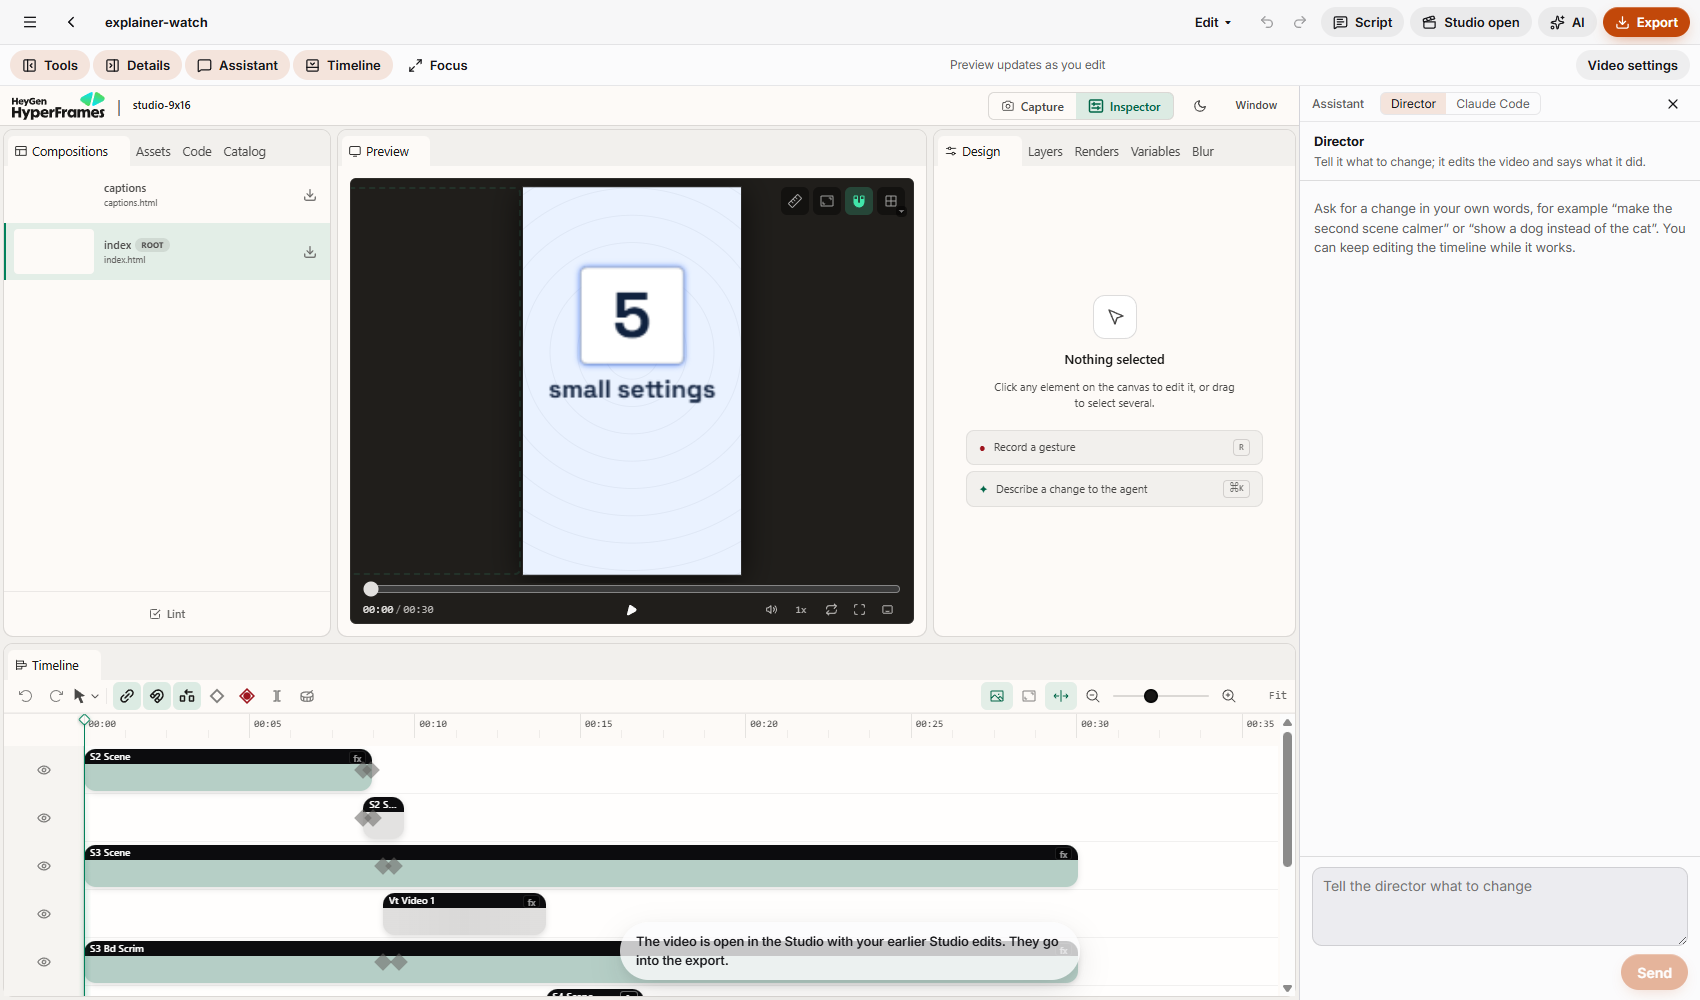
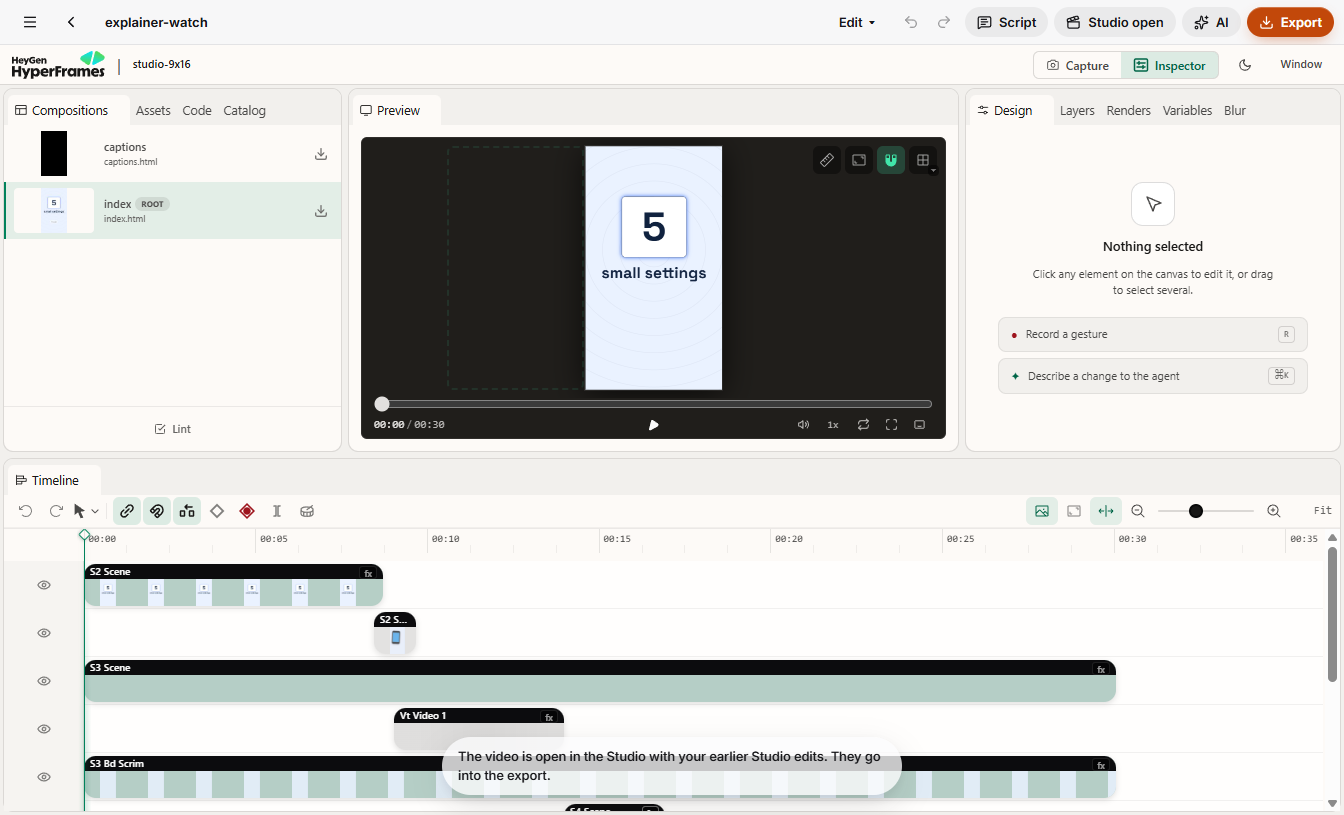
Studio mode fills the window (toolbar hidden, assistant optional); the Studio's ask-the-agent opens the docked Claude Code

diff --git a/client/studio/src/pages/Review.tsx b/client/studio/src/pages/Review.tsx
@@ -219,6 +219,21 @@ function ReviewEditor() {
   const [directorMounted, setDirectorMounted] = useState(true);          // the assistant pane keeps the director conversation and its job poll alive
   const [showAssistant, setShowAssistant] = useState(() => window.innerWidth >= 1180);
   const [studioUrl, setStudioUrl] = useState<string | null>(null);          // O5: the HyperFrames Studio inside the editor (desktop app)
+  useEffect(() => {                                                      // O6: the Studio's own "ask the agent" goes to the docked Claude Code
+    if (!studioUrl) return;
+    const origin = new URL(studioUrl).origin;
+    const on = (e: MessageEvent) => {
+      if (e.origin !== origin || !e.data || e.data.vt !== "studio-ask") return;
+      setShowAssistant(true);
+      const claude = !!(window as any).vtDesktop?.agents;
+      if (claude) setAssistantTab("claude");
+      const text = "The part I selected in the Studio: ";
+      if (claude) (window as any).__vtAgentDraft = text;               // read by the Claude Code chat when it opens (it mounts with its tab)
+      setTimeout(() => window.dispatchEvent(new CustomEvent(claude ? "vt-agent-draft" : "vt-director-draft", { detail: { text } })), 250);
+    };
+    window.addEventListener("message", on);
+    return () => window.removeEventListener("message", on);
+  }, [studioUrl]);
   const [showTimeline, setShowTimeline] = useState(true);
   const { data: useCases } = useFetch<UseCase[]>("/api/usecases");
   const [playing, setPlaying] = useState(false);
@@ -559,11 +574,12 @@ function ReviewEditor() {
           <Tooltip text="Redo" keys="Ctrl+Shift+Z"><Button icon variant="ghost" size="sm" onClick={r.redo} disabled={!r.canRedo} aria-label="Redo"><Redo2 size={16}/></Button></Tooltip>
         </div>
         <Button size="sm" onClick={() => nav(`/p/${id}/script`)} aria-label="Director's script"><MessageSquareText size={15}/> Script</Button>
-        <StudioButton projectId={id} embedded={!!studioUrl} onEmbed={(u) => { setStudioUrl(u); if (u) setShowAssistant(true); }} />
+        <StudioButton projectId={id} embedded={!!studioUrl} assistantShown={showAssistant} onAssistant={setShowAssistant}
+          onEmbed={(u) => { setStudioUrl(u); if (u) setShowAssistant(window.innerWidth >= 1500); }} />
         <Button size="sm" onClick={() => setAiOpen(true)} aria-label="AI assistant"><Sparkles size={15}/> AI</Button>
         <Button size="sm" variant="primary" onClick={exportNow}><Download size={15}/> Export</Button>
       </header>
-      <div className="ed-workspace-bar">
+      <div className="ed-workspace-bar" hidden={!!studioUrl}>
         <div className="ed-panel-actions">
           <button className={`btn sm ${showBrowser ? "selected" : ""}`} aria-pressed={showBrowser} onClick={() => setShowBrowser(!showBrowser)}><PanelLeftClose size={15}/> Tools</button>
           <button className={`btn sm ${showInspector ? "selected" : ""}`} aria-pressed={showInspector} onClick={() => { if(videoSel) { setVideoSel(false); setShowInspector(true); } else setShowInspector(!showInspector); }}><PanelRightClose size={15}/> Details</button>

diff --git a/client/desktop/main.js b/client/desktop/main.js
@@ -85,7 +85,7 @@ async function connect(address,typedKey){
     });
     // Inside the editor the Studio's own product buttons are hidden: Share (HeyGen's cloud: the video would leave this computer), Install the desktop
     // app, and its Export (Video Tool's Export is the one that mixes the voice and music).
-    const studioTidy=`(()=>{const hide=()=>document.querySelectorAll('button,a').forEach(b=>{const t=(b.textContent||'').trim();if(t==='Share'||t==='Install the desktop app'||t==='Export'){b.style.display='none';b.setAttribute('aria-hidden','true');}});hide();new MutationObserver(hide).observe(document.documentElement,{childList:true,subtree:true});})();`;
+    const studioTidy=`(()=>{if(window.__vtTidy)return;window.__vtTidy=1;const hide=()=>document.querySelectorAll('button,a').forEach(b=>{const t=(b.textContent||'').trim();if(t==='Share'||t==='Install the desktop app'||t==='Export'){b.style.display='none';b.setAttribute('aria-hidden','true');}});hide();new MutationObserver(hide).observe(document.documentElement,{childList:true,subtree:true});const ask=()=>window.parent.postMessage({vt:'studio-ask'},'*');const isAsk=n=>{for(let i=0;n&&i<5;i++,n=n.parentElement){const t=(n.textContent||'').trim();if(t.length<60&&/^[^A-Za-z]*(Ask agent about this element|Describe a change to the agent)/.test(t))return true;}return false;};['pointerdown','mousedown','click'].forEach(k=>document.addEventListener(k,e=>{if(isAsk(e.target)){e.preventDefault();e.stopImmediatePropagation();if(k==='click')ask();}},true));document.addEventListener('keydown',e=>{if((e.ctrlKey||e.metaKey)&&!e.shiftKey&&!e.altKey&&e.key.toLowerCase()==='k'){e.preventDefault();e.stopImmediatePropagation();ask();}},true);})();`; /* O6: the Studio's own agent box opens the docked Claude Code instead */
     const tidyFrames=(contents)=>contents.on('did-frame-finish-load',(_e,isMain,pid,rid)=>{if(isMain)return;try{const f=require('electron').webFrameMain.fromId(pid,rid);if(f&&/^http:\/\/127\.0\.0\.1:\d{2,5}\//.test(f.url)&&f.parent&&String(f.parent.url||'').startsWith(transport.origin+'/'))f.executeJavaScript(studioTidy).catch(()=>{});}catch{}});
     await selectedSession.cookies.set({url:transport.origin,name:'uvt_local_session',value:transport.secret,httpOnly:true,sameSite:'strict',path:'/'});
     win=new BrowserWindow({width:1360,height:880,minWidth:640,minHeight:540,title:'Ultimate Video Tool',icon:appIcon(),backgroundColor:'#f5f5f7',webPreferences:{partition,preload:path.join(__dirname,'main-preload.js'),contextIsolation:true,sandbox:true}});

diff --git a/client/studio/src/review/StudioButton.tsx b/client/studio/src/review/StudioButton.tsx
@@ -10,7 +10,8 @@ import { Button, MenuItem, Popover } from "../ds";
 // In the desktop app the Studio sits inside the editor (the app lets this one local page be framed); in a browser it opens its own window.
 const canEmbed = () => typeof window !== "undefined" && !!(window as any).vtDesktop;
 
-export default function StudioButton({ projectId, embedded, onEmbed }: { projectId: string; embedded?: boolean; onEmbed?: (url: string | null) => void }) {
+export default function StudioButton({ projectId, embedded, onEmbed, assistantShown, onAssistant }: { projectId: string; embedded?: boolean; onEmbed?: (url: string | null) => void;
+  assistantShown?: boolean; onAssistant?: (on: boolean) => void }) {
   const [state, setState] = useState<"off" | "starting" | "open">("off");
   const [url, setUrl] = useState("");
   const base = `/api/projects/${encodeURIComponent(projectId)}/studio`;
@@ -48,6 +49,7 @@ export default function StudioButton({ projectId, embedded, onEmbed }: { project
   return (
     <Popover label="Studio" align="right" trigger={<><Clapperboard size={15} /> Studio open</>}>
       {embedded ? <MenuItem onClick={() => onEmbed?.(null)}>Back to Video Tool's editor</MenuItem> : <MenuItem onClick={() => show(url)}>Show the Studio</MenuItem>}
+      {embedded && onAssistant && <MenuItem onClick={() => onAssistant(!assistantShown)}>{assistantShown ? "Hide the assistant (more room for the Studio)" : "Show the assistant beside the Studio"}</MenuItem>}
       <MenuItem onClick={() => open(true)}>Start over from the current video</MenuItem>
       <MenuItem onClick={close}>Close the Studio</MenuItem>
     </Popover>

diff --git a/client/studio/src/assistant/AgentChat.tsx b/client/studio/src/assistant/AgentChat.tsx
@@ -88,6 +88,18 @@ export default function AgentChat({ projectId, title, onChanged, onLink }: { pro
     window.addEventListener("vt-ask-about", on);
     return () => window.removeEventListener("vt-ask-about", on);
   }, []);
+  useEffect(() => {                                                      // O6: the Studio's "Ask agent about this element" starts a message here
+    const on = (e: Event) => {
+      const text = String((e as CustomEvent).detail?.text || "");
+      delete (window as any).__vtAgentDraft;
+      setDraft((d) => (d.trim() ? d : text));
+      setTimeout(() => { const b = box.current; if (b) { b.focus(); b.setSelectionRange(b.value.length, b.value.length); } }, 30);
+    };
+    const waiting = (window as any).__vtAgentDraft;
+    if (waiting) { delete (window as any).__vtAgentDraft; on(new CustomEvent("vt-agent-draft", { detail: { text: waiting } })); }
+    window.addEventListener("vt-agent-draft", on);
+    return () => window.removeEventListener("vt-agent-draft", on);
+  }, []);
   const conv = useRef<string>("");
   const end = useRef<HTMLDivElement>(null);
   const denyRef = useRef<HTMLButtonElement>(null);

diff --git a/client/studio/src/workbench/workbench.css b/client/studio/src/workbench/workbench.css
@@ -41,3 +41,4 @@
 /* O5: the HyperFrames Studio fills the canvas pane; the assistant stays docked beside it */
 .ed-canvas .studio-embed { position: absolute; inset: 0; z-index: 50; background: var(--bg); display: flex; }
 .ed-canvas .studio-embed iframe { flex: 1; border: 0; width: 100%; height: 100%; }
+.ed-workspace-bar[hidden] { display: none; }

diff --git a/docs/dev/WORKLOG.md b/docs/dev/WORKLOG.md
@@ -656,3 +656,4 @@ C11: fast render for long recordings (vt/render/fast.py): 1321 s instead of 8103
 - O3 d: the 14-minute talk bakes with nothing lost and matches the original at 16 of 17 moments (timeline written from GSAP's live timeline, ease names kept, count-ups sampled, free-visual windows, measuring-time styles ignored). Runtime fix for every render: fonts load before the build (the text fit depended on font loading speed). The page probe uses the renderer's Chrome text flags. The whole-video Studio refuses videos whose bake loses steps (stick figures). Full suite: one failure, pre-existing (test_handback), logged.
 - O5: the HyperFrames Studio inside the desktop app's editor with the assistant docked (frame rule lifted only for the local Studio; its cloud/product buttons hidden; off-computer requests refused). e2e desktop-studio 7/7.
 - O6: Claude Code edits the Studio selection: studio_parts / studio_part / studio_edit / studio_selection MCP tools; real Sonnet test in the desktop app 4/4 (the Studio shows the change live).
+- Owner said the Studio looked shrunk: Studio mode now gives it the whole window below the title bar (toolbar hidden, assistant closed in narrow windows, toggle in the Studio menu). The Studio's own ask-the-agent goes to the docked Claude Code. e2e desktop-studio 10/10.

diff --git a/docs/plans/PLAN-OPENMOTION.MD b/docs/plans/PLAN-OPENMOTION.MD
@@ -111,3 +111,7 @@ recordings, Claude Code over ACP. Our own editor stays for those until each live
 - **O6 left:** the Studio's own "Ask agent about this element" / "Describe a change to the agent" box still talks to HeyGen's agent flow, not ours
   (route it to the docked Claude Code); the Director chat does not have the studio tools yet; whether an agent's file edit is undoable in the Studio's
   history is not checked yet.
+- **O5/O6 follow-up (2026-11-23, owner: "the entire viewport looks shrunk"):** in Studio mode our second toolbar hides and the assistant starts closed
+  in windows narrower than 1500 px, so the Studio fills the window below the title bar (1344 x 770 in the app's default 1360 x 880 window); the Studio
+  menu has "Show / Hide the assistant". The Studio's own "Ask agent about this element" / "Describe a change to the agent" (and Ctrl+K) now open the
+  docked Claude Code with "The part I selected in the Studio: " ready to finish. e2e desktop-studio 10/10.
